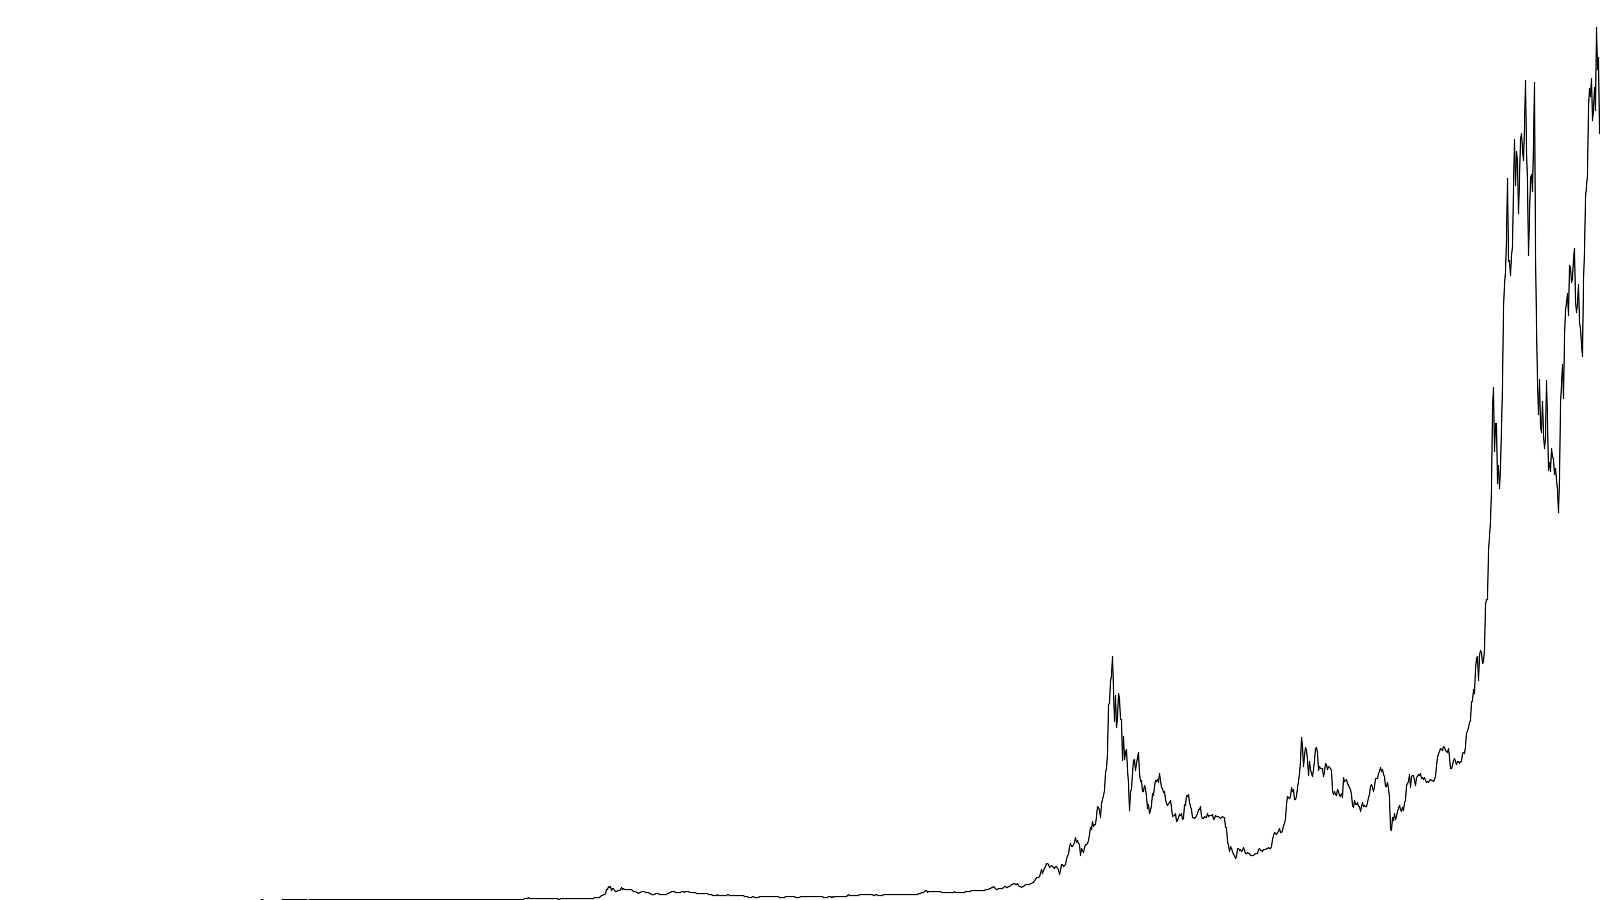
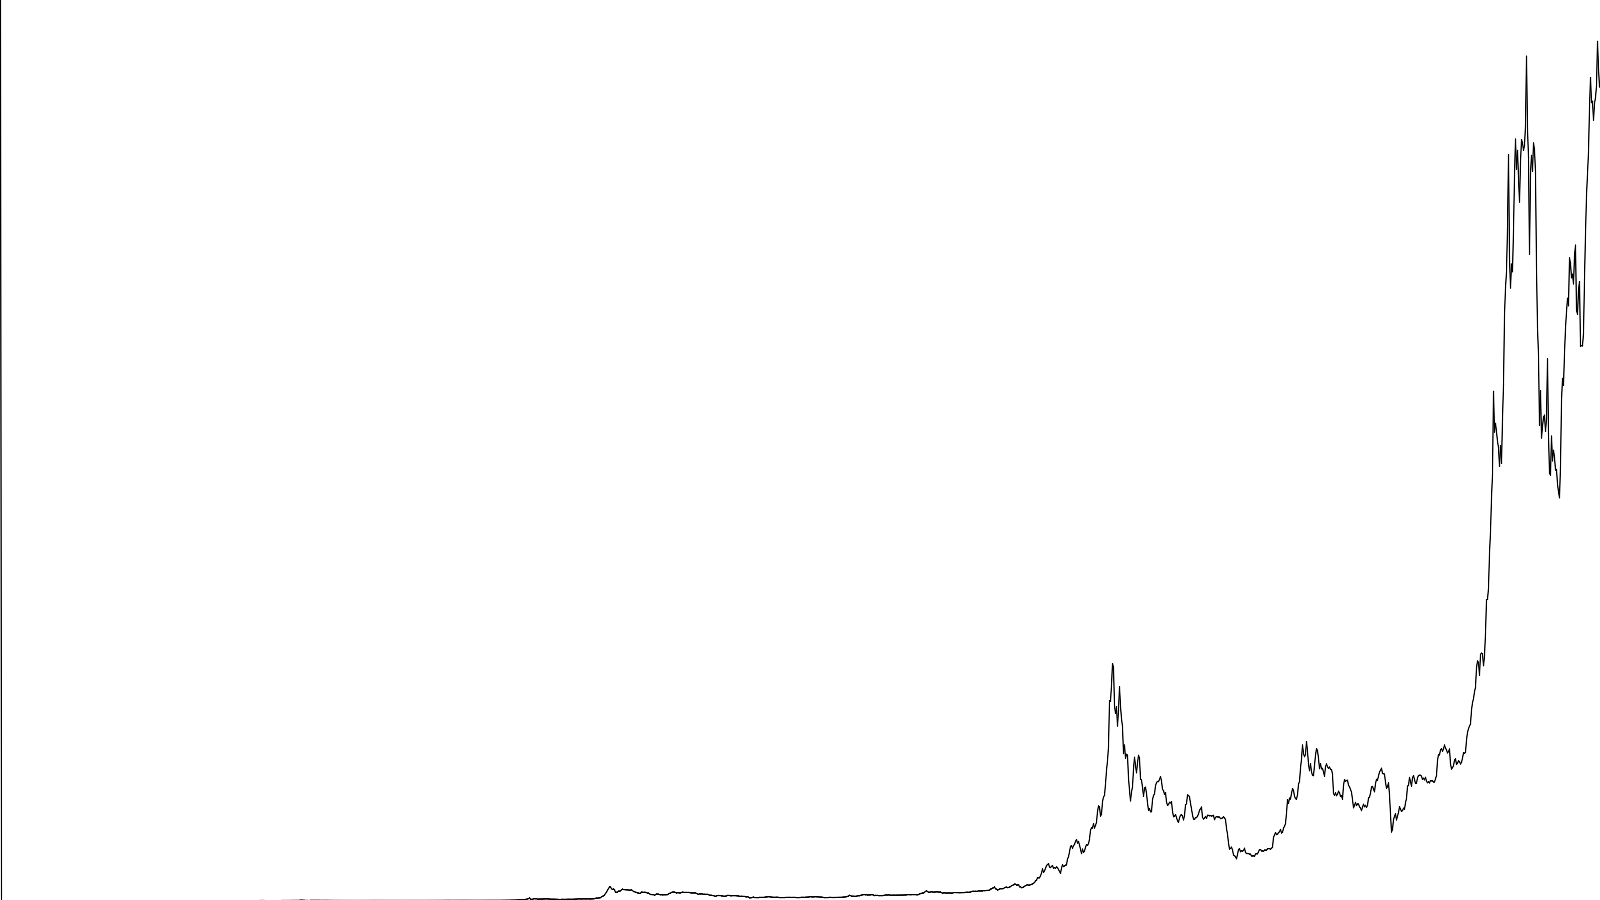
Price drawn in specific point is now average of prices of days contained in that point

diff --git a/btc_chart.cpp b/btc_chart.cpp
@@ -27,17 +27,22 @@ void BtcChart::Generate(const std::string & path, const int width,
  */
 void BtcChart::DrawPrice(Img & img, const int day_a, const int day_b) {
 
+    // price represented at the topmost point of the chart
+    const float top_price = btc_data_.GetMaxPrice(day_a, day_b);
+
+    float prev_y = 0.0f;
+
     for (int x = 1; x < width_; x++) {
 
         const int start_day = XToDay(day_a, day_b, x - 1);
-        const int start_y = PriceToY(0, btc_data_.GetMaxPrice(day_a, day_b),
-                btc_data_.GetPrice(start_day));
-
         const int end_day = XToDay(day_a, day_b, x);
-        const int end_y = PriceToY(0, btc_data_.GetMaxPrice(day_a, day_b),
-                btc_data_.GetPrice(end_day));
 
-        img.DrawLine(x - 1, start_y, x, end_y, "#000000");
+        const float y = PriceToY(0, top_price,
+                btc_data_.GetAvgPrice(start_day, end_day));
+
+        img.DrawLine(float(x - 1), prev_y, float(x), y, "#000000");
+
+        prev_y = y;
     }
 }
 
@@ -61,8 +66,8 @@ int BtcChart::XToDay(const int day_a, const int day_b, const int x) {
  * @param price Price to convert.
  * @return Y position.
  */
-int BtcChart::PriceToY(const float min_price, const float max_price,
+float BtcChart::PriceToY(const float min_price, const float max_price,
             const float price) {
 
-    return int(height_ - (price - min_price) * height_ / max_price);
+    return height_ - (price - min_price) * height_ / max_price;
 }

diff --git a/btc_data.cpp b/btc_data.cpp
@@ -55,6 +55,27 @@ float BtcData::GetPrice(const int days_since_gen) {
 }
 
 /**
+ * Get average price between two days.
+ *
+ * @param day_a First day, counted as number of days since genesis block.
+ * @param day_b Second day, counted as number of days since genesis block.
+ * @return Average price.
+ */
+float BtcData::GetAvgPrice(const int day_a, const int day_b) {
+
+    float avg_price = 0.0f;
+
+    for (int day = day_a; day < day_b; day++) {
+        const int i = day - kInitialDaysSinceGen_;
+        if (i < 0 || i >= int(btc_data_.size()))
+            continue;
+        avg_price += btc_data_[i].price;
+    }
+
+    return (avg_price / (day_b - day_a));
+}
+
+/**
  * Gets maximum price between two days.
  *
  * @param day_a First day, counted as number of days since genesis block.

diff --git a/btc_chart.h b/btc_chart.h
@@ -24,6 +24,6 @@ private:
 
     // utility private functions
     int XToDay(const int day_a, const int day_b, const int x);
-    int PriceToY(const float min_price, const float max_price,
+    float PriceToY(const float min_price, const float max_price,
             const float price);
 };

diff --git a/btc_data.h b/btc_data.h
@@ -21,6 +21,7 @@ public:
 
     // public functions
     float GetPrice(const int day_since_gen);
+    float GetAvgPrice(const int day_a, const int day_b);
     float GetMaxPrice(const int day_a, const int day_b);
     int GetLastDay();
 
